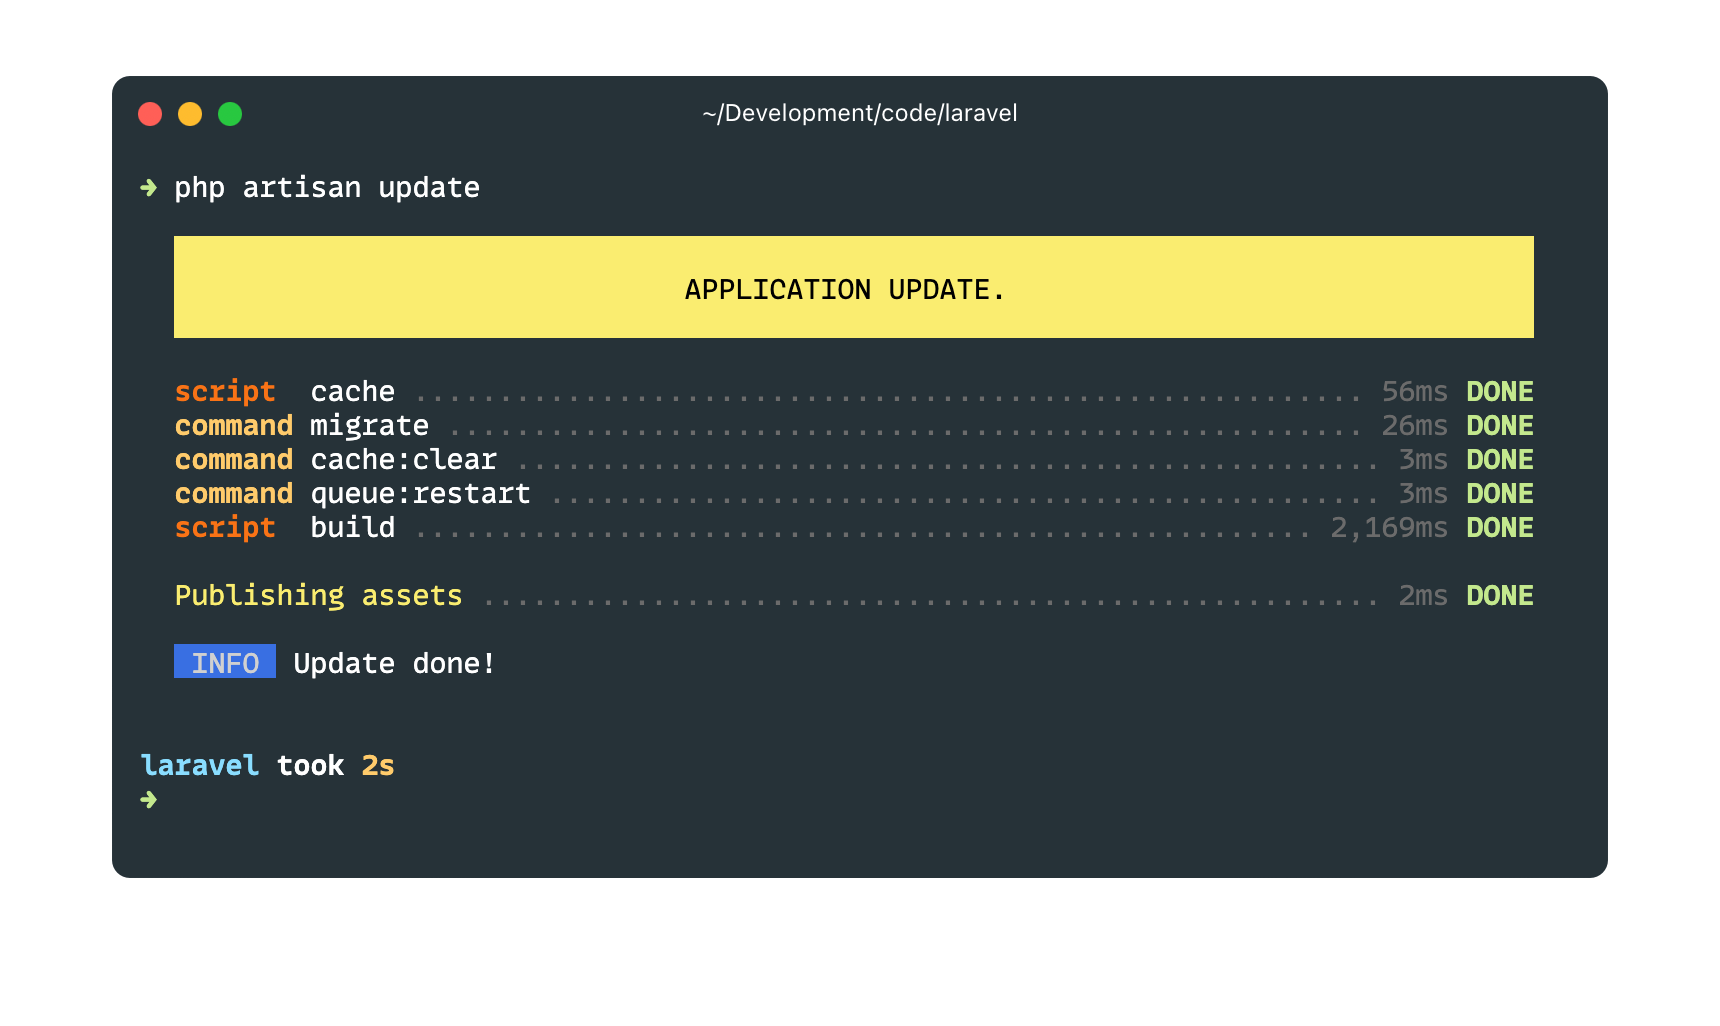
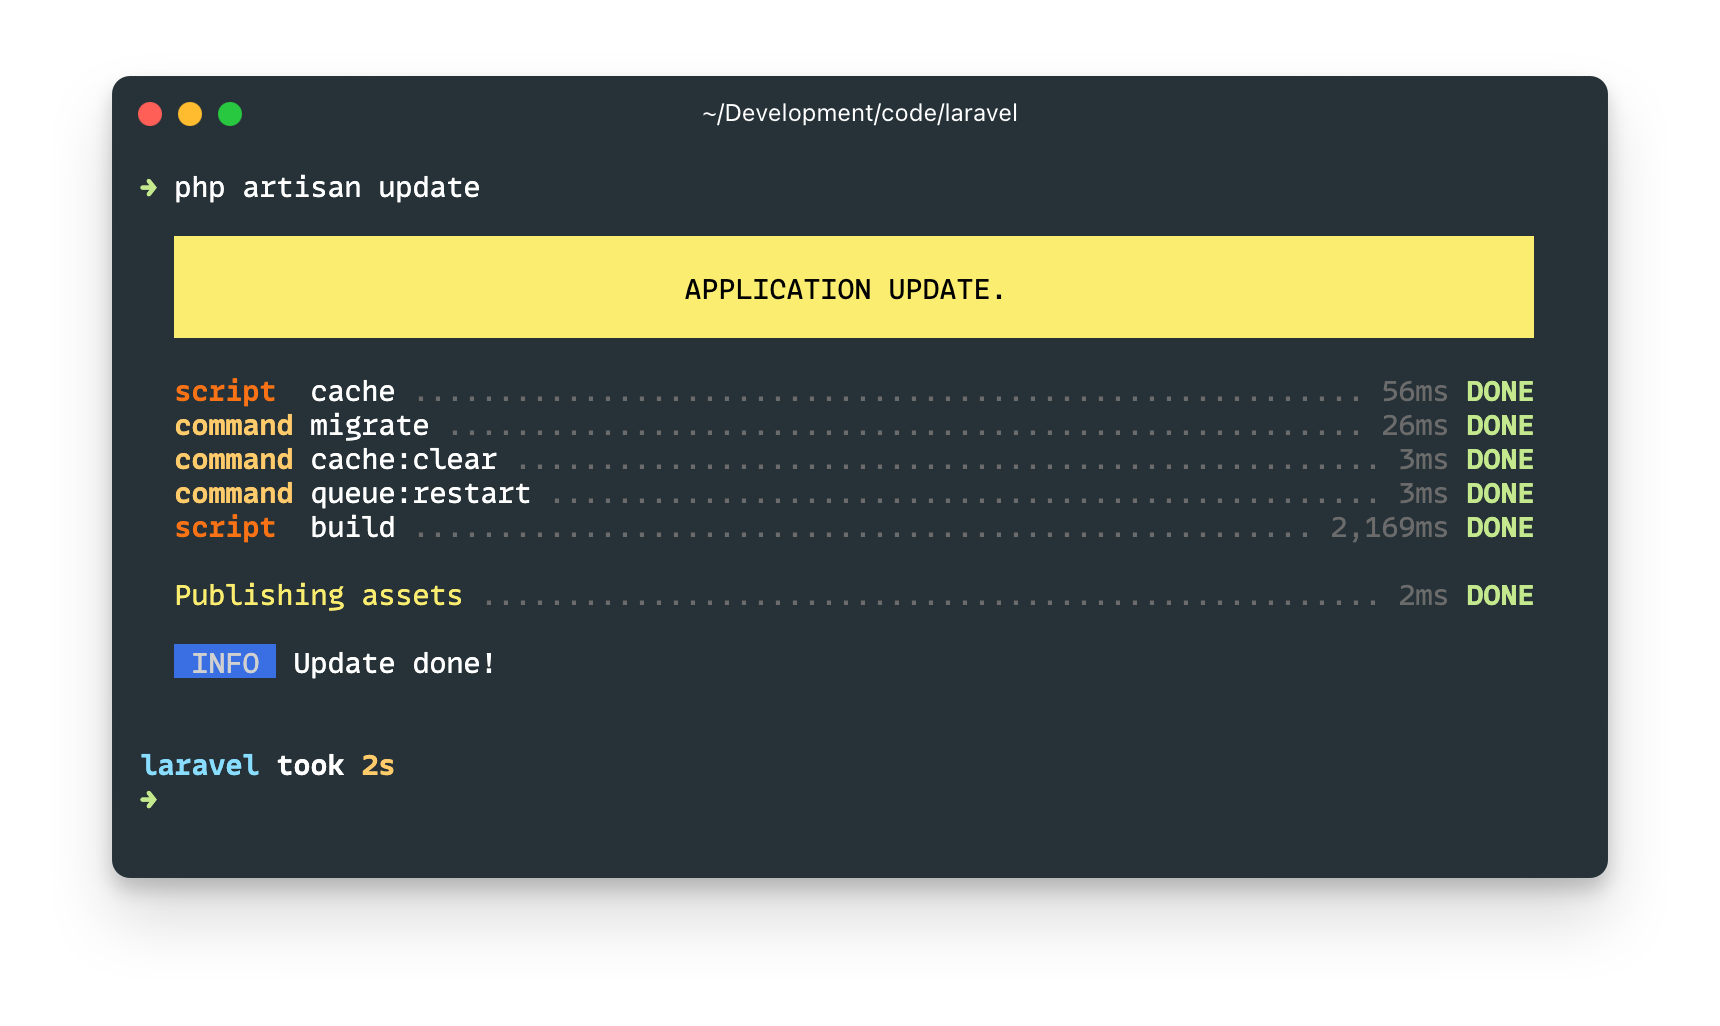
art

Changed region(s): [[0.0616, 0.1248, 0.9552, 0.9045]]

diff --git a/README.md b/README.md
@@ -15,7 +15,7 @@
     <a href="https://packagist.org/packages/qruto/laravel-formula"><img src="https://img.shields.io/packagist/v/qruto/laravel-formula" alt="Latest Stable Version"></a>
 </p>
 <p align="center">
-    <img width="600" alt="Laravel Formula Demo" src="https://github.com/qruto/laravel-formula/raw/HEAD/art/demo.png" />
+    <img width="650" alt="Laravel Formula Demo" src="https://github.com/qruto/laravel-formula/raw/HEAD/art/demo.png" />
 </p>
 
 ## Introduction
